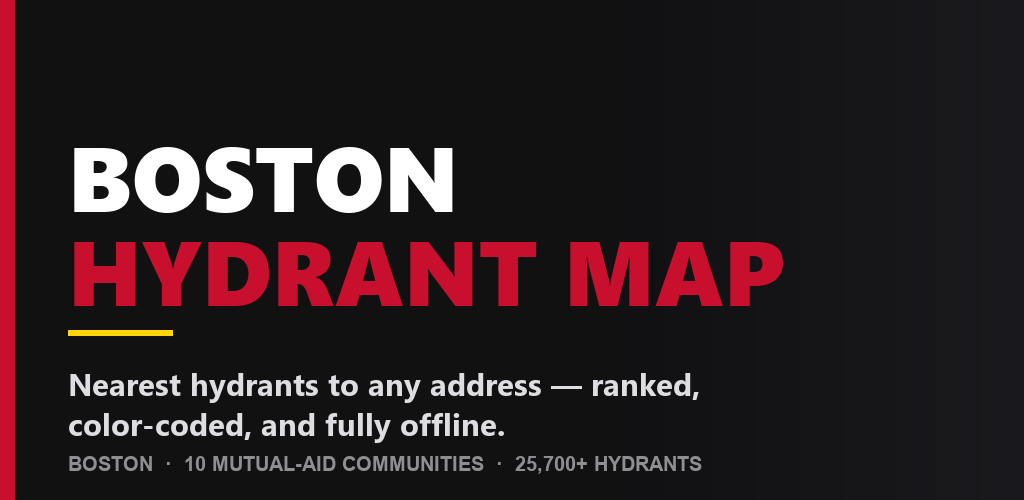
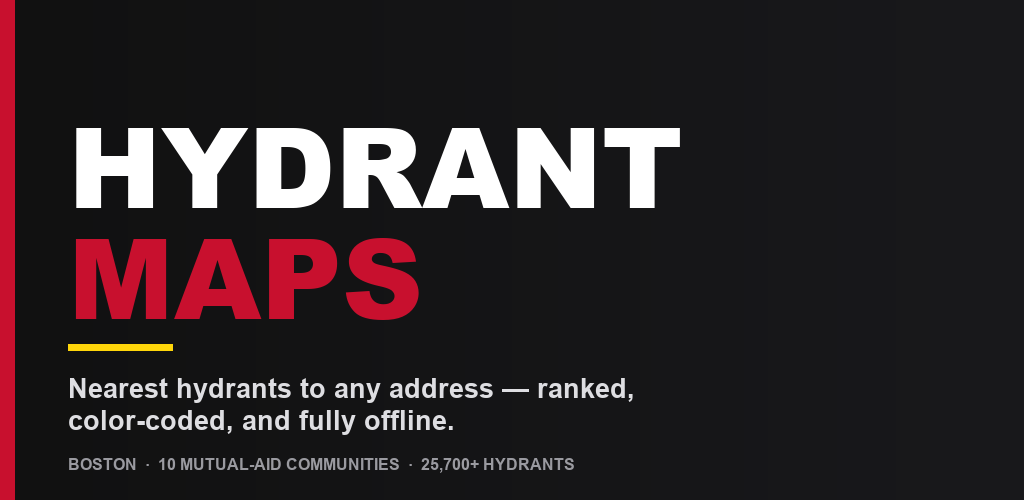
Drop Boston from the feature graphic title, and keep the generator
The title read BOSTON / HYDRANT MAP, which is both the old name and a
narrower claim than the app now makes. It is now HYDRANT / MAPS in the same
two-line, white-then-red treatment. Boston stays in the coverage line at the
bottom, where it is a fact about the data rather than part of the name.

Also adds make_feature_graphic.py. The original graphic was built inline in a
chat session and never saved, so this rename meant sampling the colours and
measuring the glyph positions back out of the PNG to rebuild it. The script
records what was recovered - the #C8102E spine, the #111111 to #19191C
gradient, the yellow rule, the 68px left margin and the cap-height baselines -
so the next edit is a one-line change instead of an archaeology exercise.

Changed region(s): [[0.0625, 0.48, 0.7812, 0.72], [0.0625, 0.24, 0.6875, 0.45], [0.0625, 0.75, 0.6875, 0.96]]

diff --git a/make_feature_graphic.py b/make_feature_graphic.py
@@ -1,0 +1,75 @@
+# -*- coding: utf-8 -*-
+"""
+Regenerate the 1024x500 Google Play feature graphic.
+
+Kept in the repo because the original was built inline in a chat session and
+then had to be reverse-engineered (colours and positions sampled back out of
+the PNG) when the app was renamed. Don't delete it.
+
+    python -I make_feature_graphic.py
+
+Colours and metrics below were sampled from the pre-rename graphic so the
+house style survives future edits.
+"""
+import os
+from PIL import Image, ImageDraw, ImageFont
+
+W, H = 1024, 500
+
+BG_L, BG_R = (0x11, 0x11, 0x11), (0x19, 0x19, 0x1C)   # bg gradient, left -> right
+RED        = (0xC8, 0x10, 0x2E)                        # BFD red: spine + accent word
+WHITE      = (0xFF, 0xFF, 0xFF)
+YELLOW     = (0xFF, 0xD6, 0x0A)                        # rule under the title
+STRAP      = (0xDE, 0xDE, 0xE2)
+META       = (0x9A, 0x9A, 0xA0)
+
+SPINE_W = 15
+X       = 68          # common left margin for every text element
+
+# Title is split across two lines, first white second red. Before the rename
+# this was BOSTON / HYDRANT MAP; the city was dropped from the title on
+# 2026-11-22 and now lives only in the coverage line at the bottom.
+TITLE_1, TITLE_2 = "HYDRANT", "MAPS"
+STRAP_1 = "Nearest hydrants to any address \u2014 ranked,"
+STRAP_2 = "color-coded, and fully offline."
+META_LINE = "BOSTON  \u00b7  10 MUTUAL-AID COMMUNITIES  \u00b7  25,700+ HYDRANTS"
+
+FONTS = "C:/Windows/Fonts/"
+OUT   = os.path.join(os.path.dirname(os.path.abspath(__file__)), "feature-graphic.png")
+
+
+def main():
+    im = Image.new("RGB", (W, H))
+    d = ImageDraw.Draw(im)
+
+    for x in range(W):
+        t = x / float(W - 1)
+        d.line([(x, 0), (x, H)],
+               fill=tuple(int(BG_L[i] + (BG_R[i] - BG_L[i]) * t) for i in range(3)))
+
+    d.rectangle([0, 0, SPINE_W - 1, H], fill=RED)
+
+    title = ImageFont.truetype(FONTS + "ariblk.ttf", 112)
+    strap = ImageFont.truetype(FONTS + "arialbd.ttf", 27)
+    meta = ImageFont.truetype(FONTS + "arialbd.ttf", 16)
+
+    def draw_at(text, font, cap_top, fill):
+        """Draw so the glyph cap-height lands exactly on cap_top."""
+        inset = d.textbbox((0, 0), text, font=font)[1]
+        d.text((X, cap_top - inset), text, font=font, fill=fill)
+
+    draw_at(TITLE_1, title, 128, WHITE)
+    draw_at(TITLE_2, title, 238, RED)
+
+    d.rectangle([X, 344, X + 104, 350], fill=YELLOW)
+
+    draw_at(STRAP_1, strap, 378, STRAP)
+    draw_at(STRAP_2, strap, 410, STRAP)
+    draw_at(META_LINE, meta, 458, META)
+
+    im.save(OUT, optimize=True)
+    print("wrote %s  %dx%d  %.0f KB" % (OUT, W, H, os.path.getsize(OUT) / 1024.0))
+
+
+if __name__ == "__main__":
+    main()
